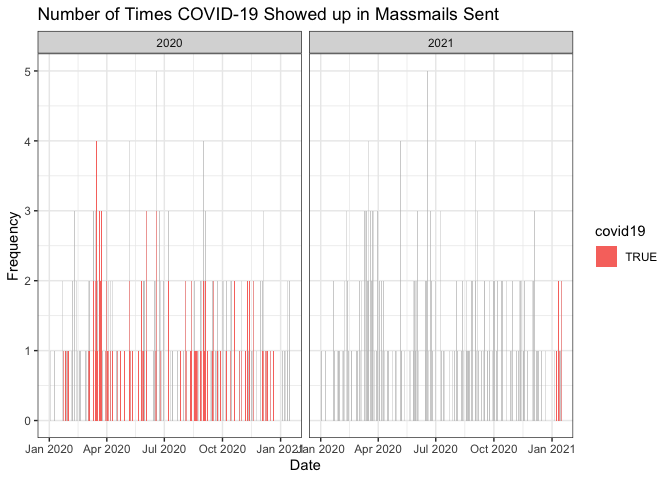
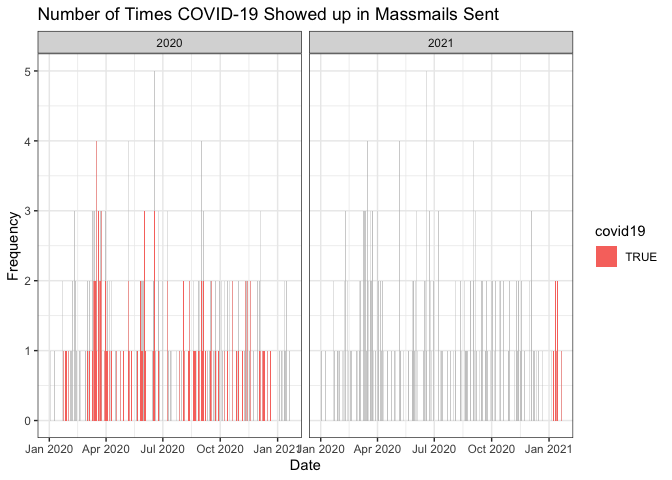
Re-build README.Rmd and Graphs

diff --git a/README.md b/README.md
@@ -17,7 +17,7 @@ The archive may be viewed here:
 
 <https://massmail.illinois.edu/massmailArchive>
 
-Data has **1264** observations and **7** variables:
+Data has **1265** observations and **7** variables:
 
   - `datetime`: Date and time when the email was sent in the form of
     `YYYY-MM-DD HMS` with either CDT or CST.
@@ -205,16 +205,16 @@ head(most_popular_words, 10) %>%
 
 | word        | freq |
 | :---------- | ---: |
-| students    |  767 |
-| campus      |  714 |
-| university  |  702 |
-| illinois    |  444 |
-| covid       |  398 |
-| faculty     |  384 |
-| community   |  366 |
-| information |  327 |
-| staff       |  311 |
-| health      |  294 |
+| students    |  779 |
+| campus      |  724 |
+| university  |  708 |
+| illinois    |  446 |
+| covid       |  408 |
+| faculty     |  385 |
+| community   |  372 |
+| information |  329 |
+| staff       |  312 |
+| health      |  297 |
 
 #### Wordcloud
 
